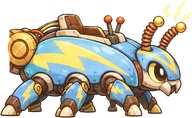
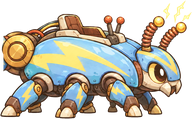
Bọ Lôi: ảnh mới (cốc nhìn ngang); ngắm thì nghiêng cả thân (rig.aimTilt, tiltPivot)
- vehicleView: thân + nòng nằm trong container 'tilt', nghiêng theo góc bắn tới aimTilt độ quanh tiltPivot (chân phía đầu), phần góc còn lại do nòng xoay. Chỉ là hình, không đổi vật lý/đường đạn.
- bo-loi: aimTilt 35°

Claude-Session: https://claude.ai/code/session_01DkVifsZhvoGWhsKDdzhcg7

diff --git a/client/src/vehicleView.ts b/client/src/vehicleView.ts
@@ -17,10 +17,12 @@ interface Rig {
   muzzle: [number, number]      // đầu nòng trên ảnh nòng
   pilot?: [number, number]      // chỗ ngồi phi công (chưa dùng)
   reverse?: boolean             // xe bắn bằng đuôi: khi ngắm thì quay đít về phía địch (ảnh bị lật so với hướng bắn)
+  aimTilt?: number              // độ: khi ngắm, cả thân nghiêng theo góc bắn tới tối đa chừng này, phần còn lại do nòng xoay (chỉ là hình)
+  tiltPivot?: [number, number]  // điểm trên ảnh thân làm trục khi nghiêng cả thân (thường là chân phía đầu)
 }
 interface RigArt { rig: Rig; body: Texture; barrel: Texture }
 /** Sprite của một xe: `frame` nghiêng theo dốc và lật theo hướng, chứa thân + nòng. */
-interface Art { frame: Container; body: Sprite; barrel: Sprite; top: number; flip: 1 | -1 }
+interface Art { frame: Container; tilt: Container; body: Sprite; barrel: Sprite; top: number; flip: 1 | -1; maxTilt: number }
 
 const rigCache = new Map<string, Promise<RigArt | null>>()
 
@@ -88,11 +90,17 @@ export class VehicleViews {
     const flip = rig.reverse ? -1 : 1
     barrel.scale.set(k * flip, k)
     barrel.position.set((rig.pivot[0] - rig.ground[0]) * ra.body.width * k, radius + (rig.pivot[1] - rig.ground[1]) * ra.body.height * k)
-    frame.addChild(body, barrel)
+    const tilt = new Container()
+    const tp = rig.tiltPivot ?? rig.ground
+    const tx = (tp[0] - rig.ground[0]) * ra.body.width * k, ty = radius + (tp[1] - rig.ground[1]) * ra.body.height * k
+    tilt.pivot.set(tx, ty)
+    tilt.position.set(tx, ty)
+    tilt.addChild(body, barrel)
+    frame.addChild(tilt)
     v.root.addChildAt(frame, 0)
     v.body.visible = false
     v.barrel.visible = false
-    v.art = { frame, body, barrel, top: radius - ra.body.height * k, flip }
+    v.art = { frame, tilt, body, barrel, top: radius - ra.body.height * k, flip, maxTilt: rig.aimTilt ?? 0 }
   }
 
   /** `shownHp`: máu đang hiển thị (có thể chậm hơn trạng thái trận khi đang phát lại phát bắn). */
@@ -119,7 +127,11 @@ export class VehicleViews {
       a.frame.rotation = -b.tilt
       a.frame.scale.x = b.facing * a.flip
       a.body.tint = a.barrel.tint = alive ? 0xffffff : 0x777777
-      const d = aimDir(this.tmp, p.aimAngle, 1, 0)   // hướng nòng trong khung của xe (đã lật + nghiêng)
+      // nghiêng cả thân theo góc bắn (tối đa maxTilt độ), phía có nòng nhấc lên; phần góc còn lại do nòng xoay
+      const bodyDeg = Math.min(p.aimAngle, a.maxTilt)
+      const t = aimDir(this.tmp, bodyDeg, 1, 0)
+      a.tilt.rotation = -a.flip * Math.atan2(-t.y, t.x)
+      const d = aimDir(this.tmp, p.aimAngle - bodyDeg, 1, 0)   // hướng nòng so với thân (khung đã lật + nghiêng)
       // xe lật ngược (reverse): khung bị lật thêm một lần và ảnh nòng cũng lật, nên góc quay đổi dấu
       a.barrel.rotation = Math.atan2(d.y * a.flip, d.x)
       this.drawLabels(v, p, hp, alive, isCur, a.top)
